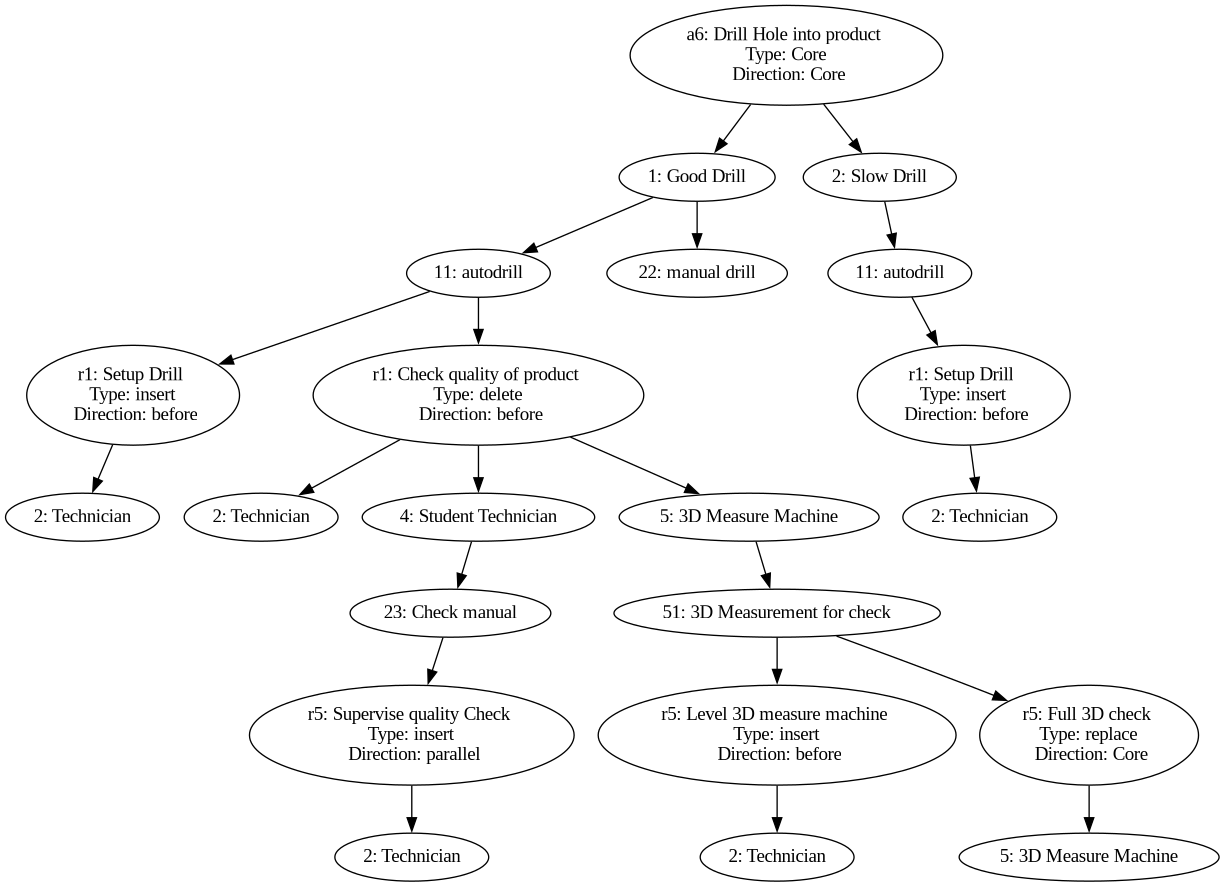
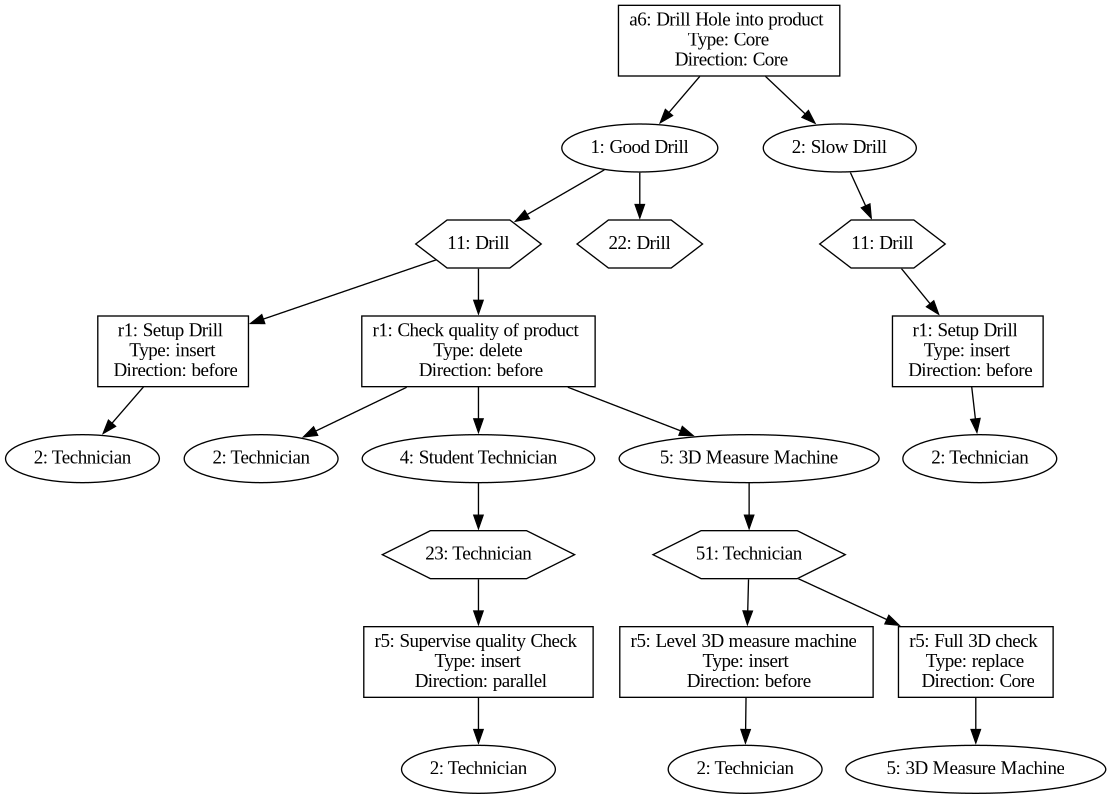
working visualization

Changed region(s): [[0.0, 0.0, 1.0, 1.0], [0.5203, 0.4205, 0.5509, 0.4506], [0.2142, 0.8411, 0.2448, 0.8711]]

diff --git a/tree_allocation/allocation/cpee_allocation.py b/tree_allocation/allocation/cpee_allocation.py
@@ -27,7 +27,7 @@ class TaskAllocation():
         self.lock:bool = False
         self.ns = None
 
-    def allocate_task(self, root=None, resource_url = None, excluded=None):
+    def allocate_task(self, root=None, resource_url = None, excluded=[]):
         """
         Build the allocation tree for self.task. 
         -> set self.state = running
@@ -59,25 +59,18 @@ class TaskAllocation():
         x = res_xml.xpath("*")
         # Create Resource Children
         for resource in av_resources:
-            #root.xpath("cpee1:children", namespaces=self.ns)[0].append(resource)
-            print("current childs: ", root.xpath("cpee1:children/*", namespaces=self.ns))
             
             #Delete non fitting profiles
             for profile in resource.xpath("resprofile"):
                 profile.append(etree.Element("children"))
-                #print(profile.xpath("*"))
                 print("Profile description: ", profile.xpath("changepattern/cpee1:description/*", namespaces=self.ns))
                 label = R_RPST.get_label(etree.tostring(root)).lower()
                 roles = R_RPST.get_allowed_roles(etree.tostring(root))
-                #print(R_RPST.get_label(etree.tostring(root).lower()) == profile.attrib["task"].lower() and (profile.attrib["role"] in R_RPST.get_allowed_roles(etree.tostring(root)) if len(R_RPST.get_allowed_roles(etree.tostring(root))) > 0 else True))
                 
                 if not (R_RPST.get_label(etree.tostring(root).lower()) == profile.attrib["task"].lower() and (profile.attrib["role"] in R_RPST.get_allowed_roles(etree.tostring(root)) if len(R_RPST.get_allowed_roles(etree.tostring(root))) > 0 else True)):
                     resource.remove(profile)
             
-            # Delete Resources without any fitting profile
-            #if len(resource.xpath("resprofile")) == 0:
-            #    print("Deleted: ", root.xpath("cpee1:children", namespaces=self.ns)[0])
-            #    root.xpath("cpee1:children", namespaces=self.ns)[0].remove(resource)
+            # Add Resource if it has fitting profiles
             if len(resource.xpath("*")) > 0:
                 root.xpath("cpee1:children", namespaces=self.ns)[0].append(resource)
 
@@ -110,11 +103,12 @@ class TaskAllocation():
                     #print(testy[3], task_elements[0])
                     cp_tasks = [element for element in change_pattern.xpath(".//*") if element.tag in task_elements]
                     cp_task_labels = [R_RPST.get_label(etree.tostring(task)) for task in cp_tasks]
-                    #TODO
-                    #if any(x['label'].lower() in map(lambda d: d["label"].lower(), cp_task_labels) for x in ex_branch): 
-                    #    print(f"Break reached, task {cp_task_labels} in excluded")
-                    #    root.children.remove(profile)
-                    #    break
+                    
+                    #TODO excluded tasks
+                    if any(x['label'].lower() in map(lambda d: d["label"].lower(), cp_task_labels) for x in ex_branch): 
+                        print(f"Break reached, task {cp_task_labels} in excluded")
+                        root.xpath("cpee1:children/resource/resprofile").remove(profile)
+                        break
 
                     for task in cp_tasks:
                         if len(change_pattern.xpath("@type")[0].lower()) > 0:

diff --git a/tree_allocation/tree/graphix.py b/tree_allocation/tree/graphix.py
@@ -21,7 +21,11 @@ class TreeGraph():
     def add_visualization_res(self, element):
         
         self.dot_content += f'\t"{element.attrib["unid"]}" [label = "{element.attrib["id"]}: {element.attrib["name"]}"]\t; \n'
+
+    def add_visualization_resprofile(self, element):
         
+        self.dot_content += f'\t"{element.attrib["unid"]}" [label = "{element.attrib["id"]}: {element.attrib["role"]}" shape=polygon sides=6]\t; \n'
+            
     def add_visualization_task(self, element):
         name = get_label(etree.tostring(element))
         try:
@@ -33,7 +37,7 @@ class TreeGraph():
         except:
             direction = "Core"
 
-        self.dot_content += f'\t"{element.attrib["unid"]}" [label = "{element.attrib["id"]}: {name} \n Type: {task_type} \n Direction: {direction}"]\t; \n'
+        self.dot_content += f'\t"{element.attrib["unid"]}" [label = "{element.attrib["id"]}: {name} \n Type: {task_type} \n Direction: {direction}" shape=rectangle]\t; \n'
 
 
 
@@ -52,7 +56,7 @@ class TreeGraph():
             
             for profile in node.xpath("cpee1:resprofile", namespaces=self.ns):
                 profile.attrib["unid"] = str(uuid.uuid1())
-                self.add_visualization_res(profile)
+                self.add_visualization_resprofile(profile)
                 self.dot_content += self.add_node_to_dot(node, profile)
                 for child in profile.xpath("cpee1:children/*", namespaces=self.ns):
                     child.attrib["unid"] = str(uuid.uuid1())
